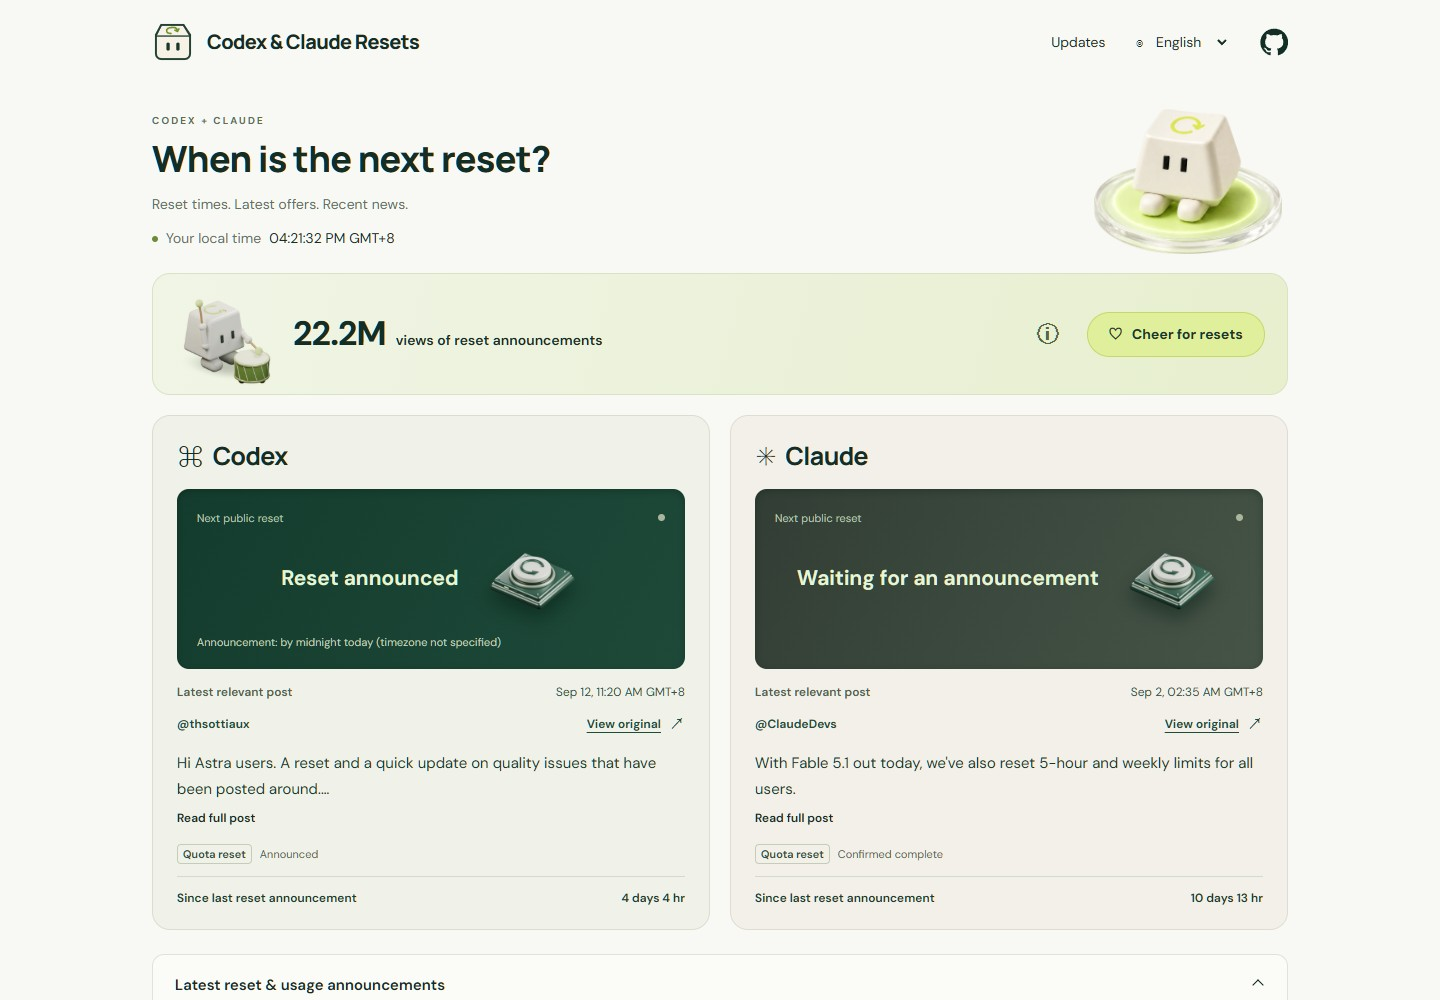
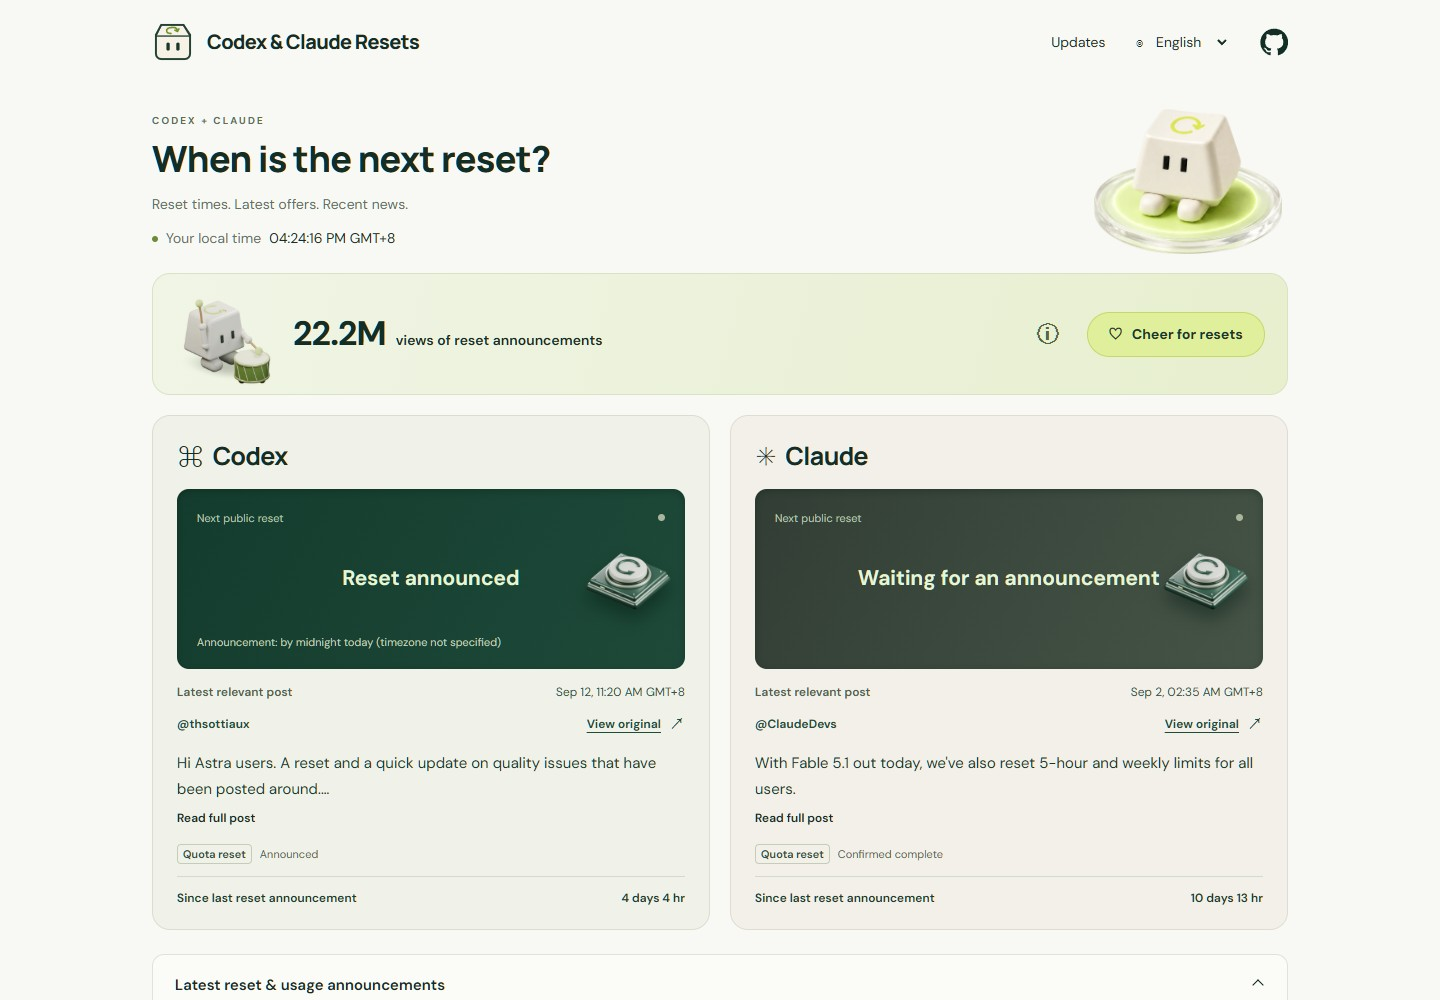
Restore right-side illustrations and center status text only

Changed region(s): [[0.5625, 0.558, 0.875, 0.62], [0.1875, 0.558, 0.4688, 0.62], [0.2188, 0.217, 0.2812, 0.248]]

diff --git a/src/clocks.css b/src/clocks.css
@@ -52,6 +52,6 @@
 
 .reset-overview .local-now{font-size:14px;gap:8px;line-height:1.5}@media(max-width:600px){.reset-overview .local-now{font-size:13px;gap:6px}}
 .clock-face{position:relative}.clock-content{padding-bottom:24px}.clock-face .public-reset-time{position:absolute;inset-inline:0;bottom:0;text-align:start;margin:0}.clock-face .public-reset-time:empty{display:none}
-.platform-card:not([data-clock-state=announced]) .clock-content{justify-content:center;gap:24px}.platform-card:not([data-clock-state=announced]) .clock-reading{position:static;flex:0 1 auto;min-width:0;padding:0}.platform-card:not([data-clock-state=announced]) .clock-verdict{max-width:none}.platform-card:not([data-clock-state=announced]) .station-art{margin-inline:0}
+.platform-card:not([data-clock-state=announced]) .clock-reading{position:absolute;inset:0;display:flex;align-items:center;justify-content:center;padding-bottom:24px}.platform-card:not([data-clock-state=announced]) .clock-verdict{max-width:calc(100% - 120px)}.platform-card:not([data-clock-state=announced]) .station-art{margin-inline-start:auto}
 
-@media(max-width:600px){.platform-card:not([data-clock-state=announced]) .clock-content{gap:16px}.platform-card:not([data-clock-state=announced]) .clock-verdict{min-width:0;overflow-wrap:normal;word-break:normal}}
+@media(max-width:600px){.platform-card:not([data-clock-state=announced]) .clock-verdict{max-width:calc(100% - 160px);min-width:0;overflow-wrap:normal;word-break:normal}}
